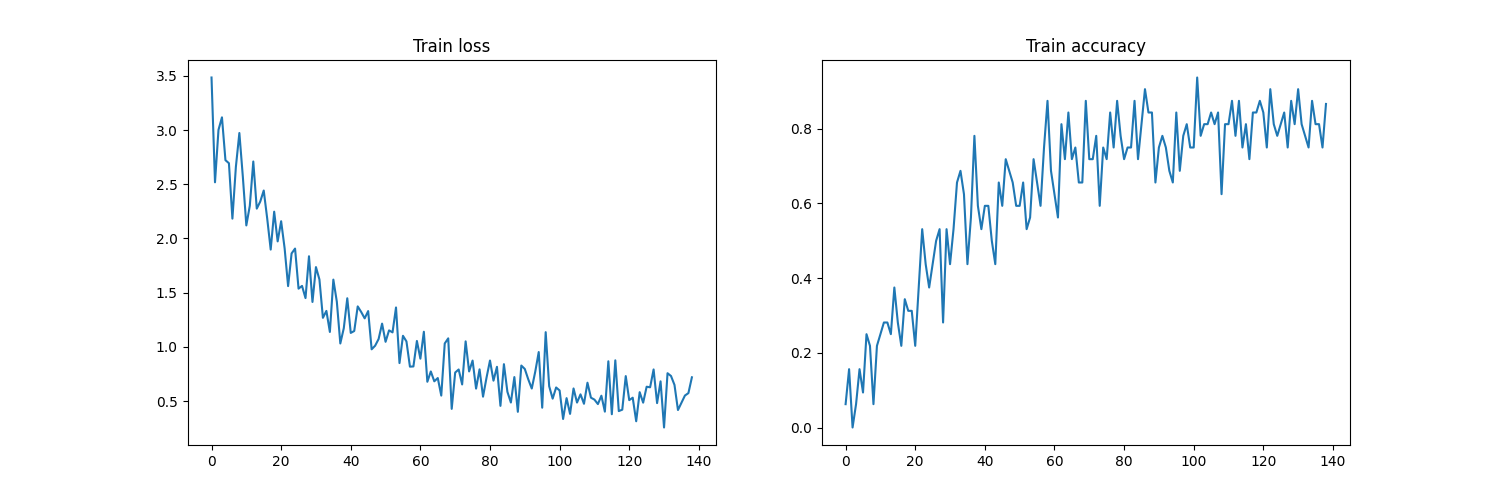
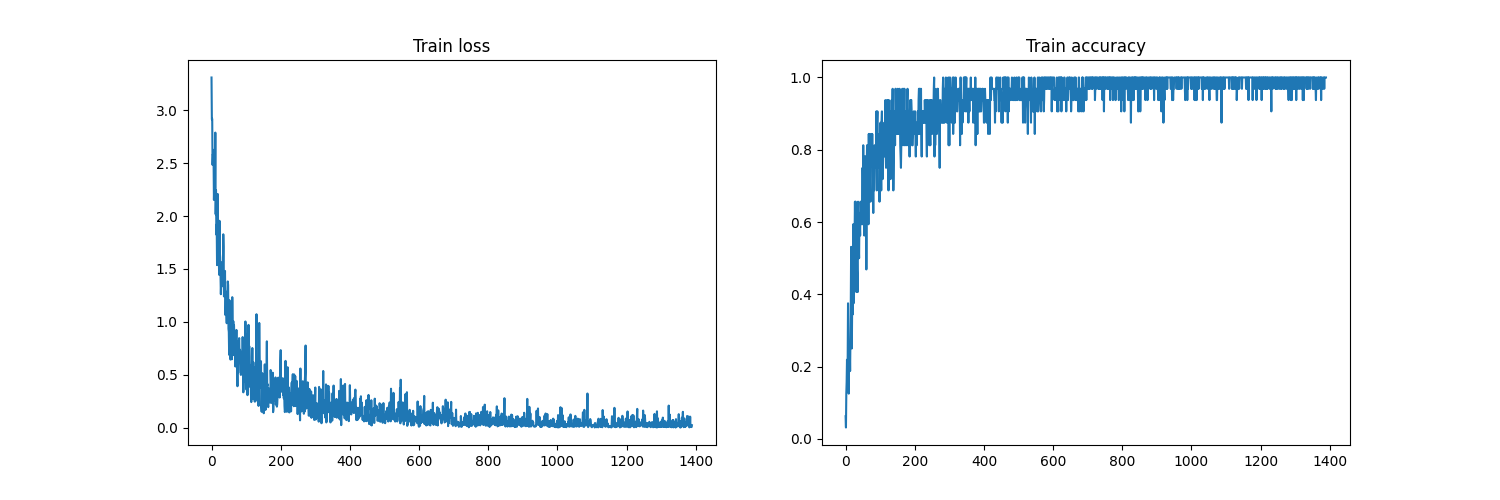
readmeupdate

diff --git a/reports/README.md b/reports/README.md
@@ -48,46 +48,46 @@ will check the repositories and the code to verify your answers.
 
 ### Week 1
 
-* [ ] Create a git repository (M5)
-* [ ] Make sure that all team members have write access to the GitHub repository (M5)
-* [ ] Create a dedicated environment for you project to keep track of your packages (M2)
-* [ ] Create the initial file structure using cookiecutter with an appropriate template (M6)
-* [ ] Fill out the `data.py` file such that it downloads whatever data you need and preprocesses it (if necessary) (M6)
-* [ ] Add a model to `model.py` and a training procedure to `train.py` and get that running (M6)
-* [ ] Remember to fill out the `requirements.txt` and `requirements_dev.txt` file with whatever dependencies that you
+* [x] Create a git repository (M5)
+* [x] Make sure that all team members have write access to the GitHub repository (M5)
+* [x] Create a dedicated environment for you project to keep track of your packages (M2)
+* [x] Create the initial file structure using cookiecutter with an appropriate template (M6)
+* [x] Fill out the `data.py` file such that it downloads whatever data you need and preprocesses it (if necessary) (M6)
+* [x] Add a model to `model.py` and a training procedure to `train.py` and get that running (M6)
+* [x] Remember to fill out the `requirements.txt` and `requirements_dev.txt` file with whatever dependencies that you
     are using (M2+M6)
 * [ ] Remember to comply with good coding practices (`pep8`) while doing the project (M7)
-* [ ] Do a bit of code typing and remember to document essential parts of your code (M7)
-* [ ] Setup version control for your data or part of your data (M8)
+* [x] Do a bit of code typing and remember to document essential parts of your code (M7)
+* [x] Setup version control for your data or part of your data (M8)
 * [ ] Add command line interfaces and project commands to your code where it makes sense (M9)
-* [ ] Construct one or multiple docker files for your code (M10)
-* [ ] Build the docker files locally and make sure they work as intended (M10)
-* [ ] Write one or multiple configurations files for your experiments (M11)
-* [ ] Used Hydra to load the configurations and manage your hyperparameters (M11)
+* [x] Construct one or multiple docker files for your code (M10)
+* [x] Build the docker files locally and make sure they work as intended (M10)
+* [x] Write one or multiple configurations files for your experiments (M11)
+* [x] Used Hydra to load the configurations and manage your hyperparameters (M11)
 * [ ] Use profiling to optimize your code (M12)
-* [ ] Use logging to log important events in your code (M14)
-* [ ] Use Weights & Biases to log training progress and other important metrics/artifacts in your code (M14)
+* [x] Use logging to log important events in your code (M14)
+* [x] Use Weights & Biases to log training progress and other important metrics/artifacts in your code (M14)
 * [ ] Consider running a hyperparameter optimization sweep (M14)
 * [ ] Use PyTorch-lightning (if applicable) to reduce the amount of boilerplate in your code (M15)
 
 ### Week 2
 
-* [ ] Write unit tests related to the data part of your code (M16)
-* [ ] Write unit tests related to model construction and or model training (M16)
-* [ ] Calculate the code coverage (M16)
-* [ ] Get some continuous integration running on the GitHub repository (M17)
-* [ ] Add caching and multi-os/python/pytorch testing to your continuous integration (M17)
-* [ ] Add a linting step to your continuous integration (M17)
-* [ ] Add pre-commit hooks to your version control setup (M18)
+* [x] Write unit tests related to the data part of your code (M16)
+* [x] Write unit tests related to model construction and or model training (M16)
+* [x] Calculate the code coverage (M16)
+* [x] Get some continuous integration running on the GitHub repository (M17)
+* [x] Add caching and multi-os/python/pytorch testing to your continuous integration (M17)
+* [x] Add a linting step to your continuous integration (M17)
+* [x] Add pre-commit hooks to your version control setup (M18)
 * [ ] Add a continues workflow that triggers when data changes (M19)
-* [ ] Add a continues workflow that triggers when changes to the model registry is made (M19)
+* [x] Add a continues workflow that triggers when changes to the model registry is made (M19)
 * [ ] Create a data storage in GCP Bucket for your data and link this with your data version control setup (M21)
 * [ ] Create a trigger workflow for automatically building your docker images (M21)
 * [ ] Get your model training in GCP using either the Engine or Vertex AI (M21)
-* [ ] Create a FastAPI application that can do inference using your model (M22)
-* [ ] Deploy your model in GCP using either Functions or Run as the backend (M23)
-* [ ] Write API tests for your application and setup continues integration for these (M24)
-* [ ] Load test your application (M24)
+* [x] Create a FastAPI application that can do inference using your model (M22)
+* [x] Deploy your model in GCP using either Functions or Run as the backend (M23)
+* [x] Write API tests for your application and setup continues integration for these (M24)
+* [x] Load test your application (M24)
 * [ ] Create a more specialized ML-deployment API using either ONNX or BentoML, or both (M25)
 * [ ] Create a frontend for your API (M26)
 
@@ -109,7 +109,7 @@ will check the repositories and the code to verify your answers.
 * [ ] Revisit your initial project description. Did the project turn out as you wanted?
 * [ ] Create an architectural diagram over your MLOps pipeline
 * [ ] Make sure all group members have an understanding about all parts of the project
-* [ ] Uploaded all your code to GitHub
+* [x] Uploaded all your code to GitHub
 
 ## Group information
 
@@ -294,7 +294,7 @@ We did make use of the DVC in our project. We used it with the aim to version co
 >
 > Answer:
 
-We made use of config files. Before running an experiment, one had to be sure the correct config files was chosen in the config.yaml file. In our setup, you could only change what model to use, but in theory we could have setup multiple optimizers or training configurations.
+We made use of config files. The main config file "config.yaml" was used to specify optimizer, model etc.. Then, we had separate config files for each of these to specify the hyperparameters such as learning rate and batch size. In our project we only made use of the adam optimizer, but the setup works to handle multiple selections of optimizer as well. Before running an experiment, one had to set up the experiment by changing parameters through these config files, thus no arguments were passed.
 
 ### Question 13
 
@@ -309,7 +309,7 @@ We made use of config files. Before running an experiment, one had to be sure th
 >
 > Answer:
 
-We made use of config files. Whenever an experiment is run, multiple print statements are run, which prints the contents of the config files, so that you early on can catch if that indeed was the experiment you inteded to run. We also used seeding to make the training as reproducible as possible.
+We made use of config files. Whenever an experiment is run, multiple print statements are run, which prints the contents of the config files, so that you early on can catch if that indeed was the experiment you inteded to run. We also used seeding to make the training as reproducible as possible. In addition to this, all configurations were saved as sattelite data, thus visible in weights and biases. Also, all final models were saved as artefacts to ensure reproducability.
 
 ### Question 14
 
